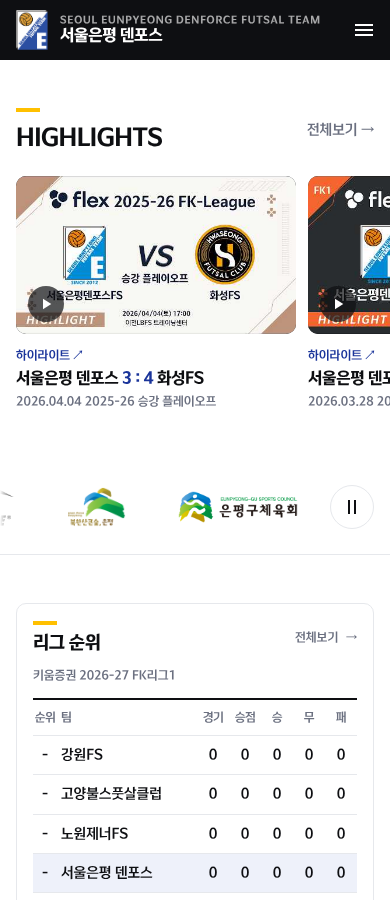
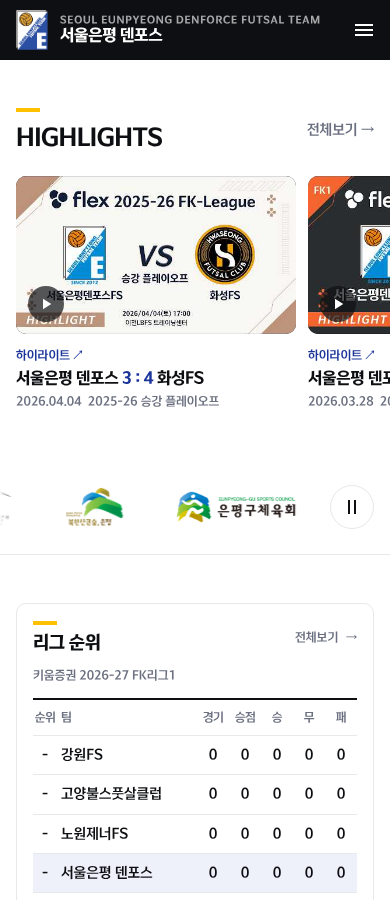
경기 영상 수치표 맞춤: 휴대폰 띠 라벨 옆 LIVE, 하이라이트 제목 2줄, 날짜와 대회 사이 공백 2칸 (D-091, D-092)
Claude-Session: https://claude.ai/code/session_015na33bHmUEDGFhNLp3LnQp

diff --git a/sites/eunpyeong-denforce/src/components/home/NextMatchHero.tsx b/sites/eunpyeong-denforce/src/components/home/NextMatchHero.tsx
@@ -103,8 +103,12 @@ function PhoneStrip({ match, ourName, textured, style }: Props) {
   return (
     <section className={styles.stripWrap} data-surface="dark" aria-labelledby="next-home-match-strip">
       <LiveLink window={live} href="/match/schedule" className={`${styles.card} ${styles.strip} ${textured ? styles.textured : ""}`} style={style}>
-        <span id="next-home-match-strip" role="heading" aria-level={2} className={styles.label}>
-          NEXT HOME MATCH
+        {/* 라벨 오른쪽 LIVE (D-092 L4 (가), 높이 그대로) */}
+        <span className={styles.labelRow}>
+          <span id="next-home-match-strip" role="heading" aria-level={2} className={styles.label}>
+            NEXT HOME MATCH
+          </span>
+          <LiveBadge window={live} />
         </span>
         <CompetitionTag text={matchLabel(match)} surface="dark" />
         <span className={styles.stripTeams}>

diff --git a/sites/eunpyeong-denforce/src/components/news/HighlightCard.tsx b/sites/eunpyeong-denforce/src/components/news/HighlightCard.tsx
@@ -39,7 +39,10 @@ export function HighlightCard({ item }: { item: HighlightItem }) {
           {item.away}
         </strong>
         <span className={styles.meta}>
-          {item.date} {item.competition}
+          {/* 날짜 + 공백 2칸 + 대회/라운드 (디자인 수치표 2ad2066) */}
+          {item.date}
+          {"\u00a0\u00a0"}
+          {item.competition}
         </span>
       </span>
     </a>

diff --git a/sites/eunpyeong-denforce/src/components/news/HighlightCard.module.css b/sites/eunpyeong-denforce/src/components/news/HighlightCard.module.css
@@ -61,6 +61,11 @@
   letter-spacing: -0.02em;
   word-break: keep-all;
   overflow-wrap: anywhere;
+  /* 2줄까지 */
+  display: -webkit-box;
+  -webkit-line-clamp: 2;
+  -webkit-box-orient: vertical;
+  overflow: hidden;
 }
 
 .score {

diff --git a/sites/eunpyeong-denforce/docs/DECISION_LOG.md b/sites/eunpyeong-denforce/docs/DECISION_LOG.md
@@ -35,6 +35,7 @@
 - **표시**: LiveBadge(color/yellow 면 + 검정 점 6 + LIVE kfa/label black, radius/pill, 깜빡임 없음 — 빨강은 '패' 뜻이라 안 씀). '생중계 보기 ↗' 는 놓인 곳의 영상 버튼 모양, 44, 새 창, 이름 '생중계 보기 - 날짜 홈 vs 원정 (새 창)'.
   - L1 홈 경기 띠: 라벨 옆 LIVE + 버튼(예정 칸). L2 경기일정 표: 일시 칸 아래 LIVE, 버튼은 PC 결과 칸('-' 대신) / 휴대폰 장소 줄 아래. L3 PC 다음 홈경기 카드: 라벨 옆 LIVE, 버튼 둘 아래 한 줄(폭 = 버튼 둘), 카드 368 → 424 — 721~1920 히어로 안(아래 16 / 32 남음). L4 휴대폰 띠 (가): LIVE 시간에 띠 전체 링크 → 생중계(새 창), → 를 ↗, 숨김 글자 ', 생중계 보기 (새 창)', 높이 154 그대로.
 - **캐시 판단**: 화면은 미리 만들어 캐시('use cache' + cacheLife minutes, 페이지 미리 렌더)라 서버에서 '지금'을 재면 몇 분~몇 시간 어긋날 수 있다 → 서버는 창(시작/끝/주소)만 넘기고, 브라우저(components/match/Live.tsx, useLive)가 붙은 뒤 시간을 재서 켠다/끈다(창 경계에 맞춰 다시 잼, 최대 1분 간격). 시작/끝은 정확. 결과 입력(종료)은 데이터 캐시만큼(약 1~5분) 늦게 꺼질 수 있음 — 허용(4시간 상한이 있고 종료 직후 생중계 링크도 다시보기라 틀린 곳으로 보내지 않음). 처음 그림은 LIVE 없는 모양이라 그 순간 깜빡 바뀔 수 있음.
+- **디자인 수치표(2ad2066) 맞춤**: 휴대폰 띠도 라벨 오른쪽 LIVE(높이 154 그대로, 링크 이름에 'LIVE' 포함), 하이라이트 제목 2줄까지, 날짜와 대회 사이 공백 2칸. H2 '전체보기' 는 /news/video#highlights(총괄 지시, 칸이 맨 위라 결과는 같음).
 - **확인**: 테스트(-3h / -2h / 경기 중 / +4h 직전 / +4h / 종료 / 주소 없음). 화면 시계 바꿔(Playwright clock) 실데이터 1R(2026-11-15 14:00, 생중계 주소 있음): -3h 없음, -2h / 경기 중 L1 L2 표시, +4h 없음. L3 L4 는 로컬 가짜 Supabase 로 4R 에 주소를 넣어 같은 시간표로 확인(운영 쓰기 없음).
 
 ## D-091 | 2026-11-14 | 은평 경기 하이라이트 모아 보기: 홈 경기 띠 아래 HIGHLIGHTS 4개 + 구단영상 맨 위 '경기 하이라이트' 전부

diff --git a/sites/eunpyeong-denforce/docs/FIGMA_SYNC.md b/sites/eunpyeong-denforce/docs/FIGMA_SYNC.md
@@ -637,3 +637,4 @@
 - 2026-11-14 기능: ② 하이라이트 모아 보기(D-091) — HighlightCard, 홈 HIGHLIGHTS 4개(관리자 제목 칸), 구단영상 맨 위 전부, 썸네일 i.ytimg.com 원본. ③ 경기 당일 LIVE(D-092) — LiveBadge / 생중계 보기, L1~L4, 시각은 브라우저에서. 캡처 match-video/code-*.png. 22페이지 x 12폭 ALL CLEAN.
 - 2026-11-14 기능: D-090 검토 반영 — FK CUP '|' 제목, (날짜) 뒤 단계 꼬리, 관리자가 비운 칸 다시 안 채움(kfl_video_sync_applied), 깨진 참조 항목만 버림, 헤더 모양 먼저 거절, 별칭 정규화. 테스트 13개.
 - 2026-11-14 디자인: 소유자 '추천대로' 경기 영상 확정. 피그마 이름에 [확정 2026-11-14](H1, H2, L1, L2, L3, L4 가) / [보관: 선택 안 됨](H3, L4 나). H2 휴대폰(284:29003)과 L1 휴대폰을 운영 홈 구조로 고침: 예전 '경기' 제목 줄 + '전체 일정 →' 이 있던 MatchStrip 을 제목 줄 없는 확정 띠(200:21621, D-085)로 바꿈, L1 휴대폰은 새 노드 289:29275(예전 285:29171 지움). PC 두 프레임은 이미 제목 줄 없는 띠(247:3440)라 그대로. 부품 지도에 '경기 영상' 수치표(HighlightCard, LIVE 배지, 생중계 버튼, 놓는 자리, 표시 시간).
+- 2026-11-14 기능: ②③ 수치표(2ad2066) 맞춤 — 휴대폰 띠 라벨 옆 LIVE(154 그대로), 하이라이트 제목 2줄, 날짜 + 공백 2칸 + 대회. 디자인 2ad2066 병합.
